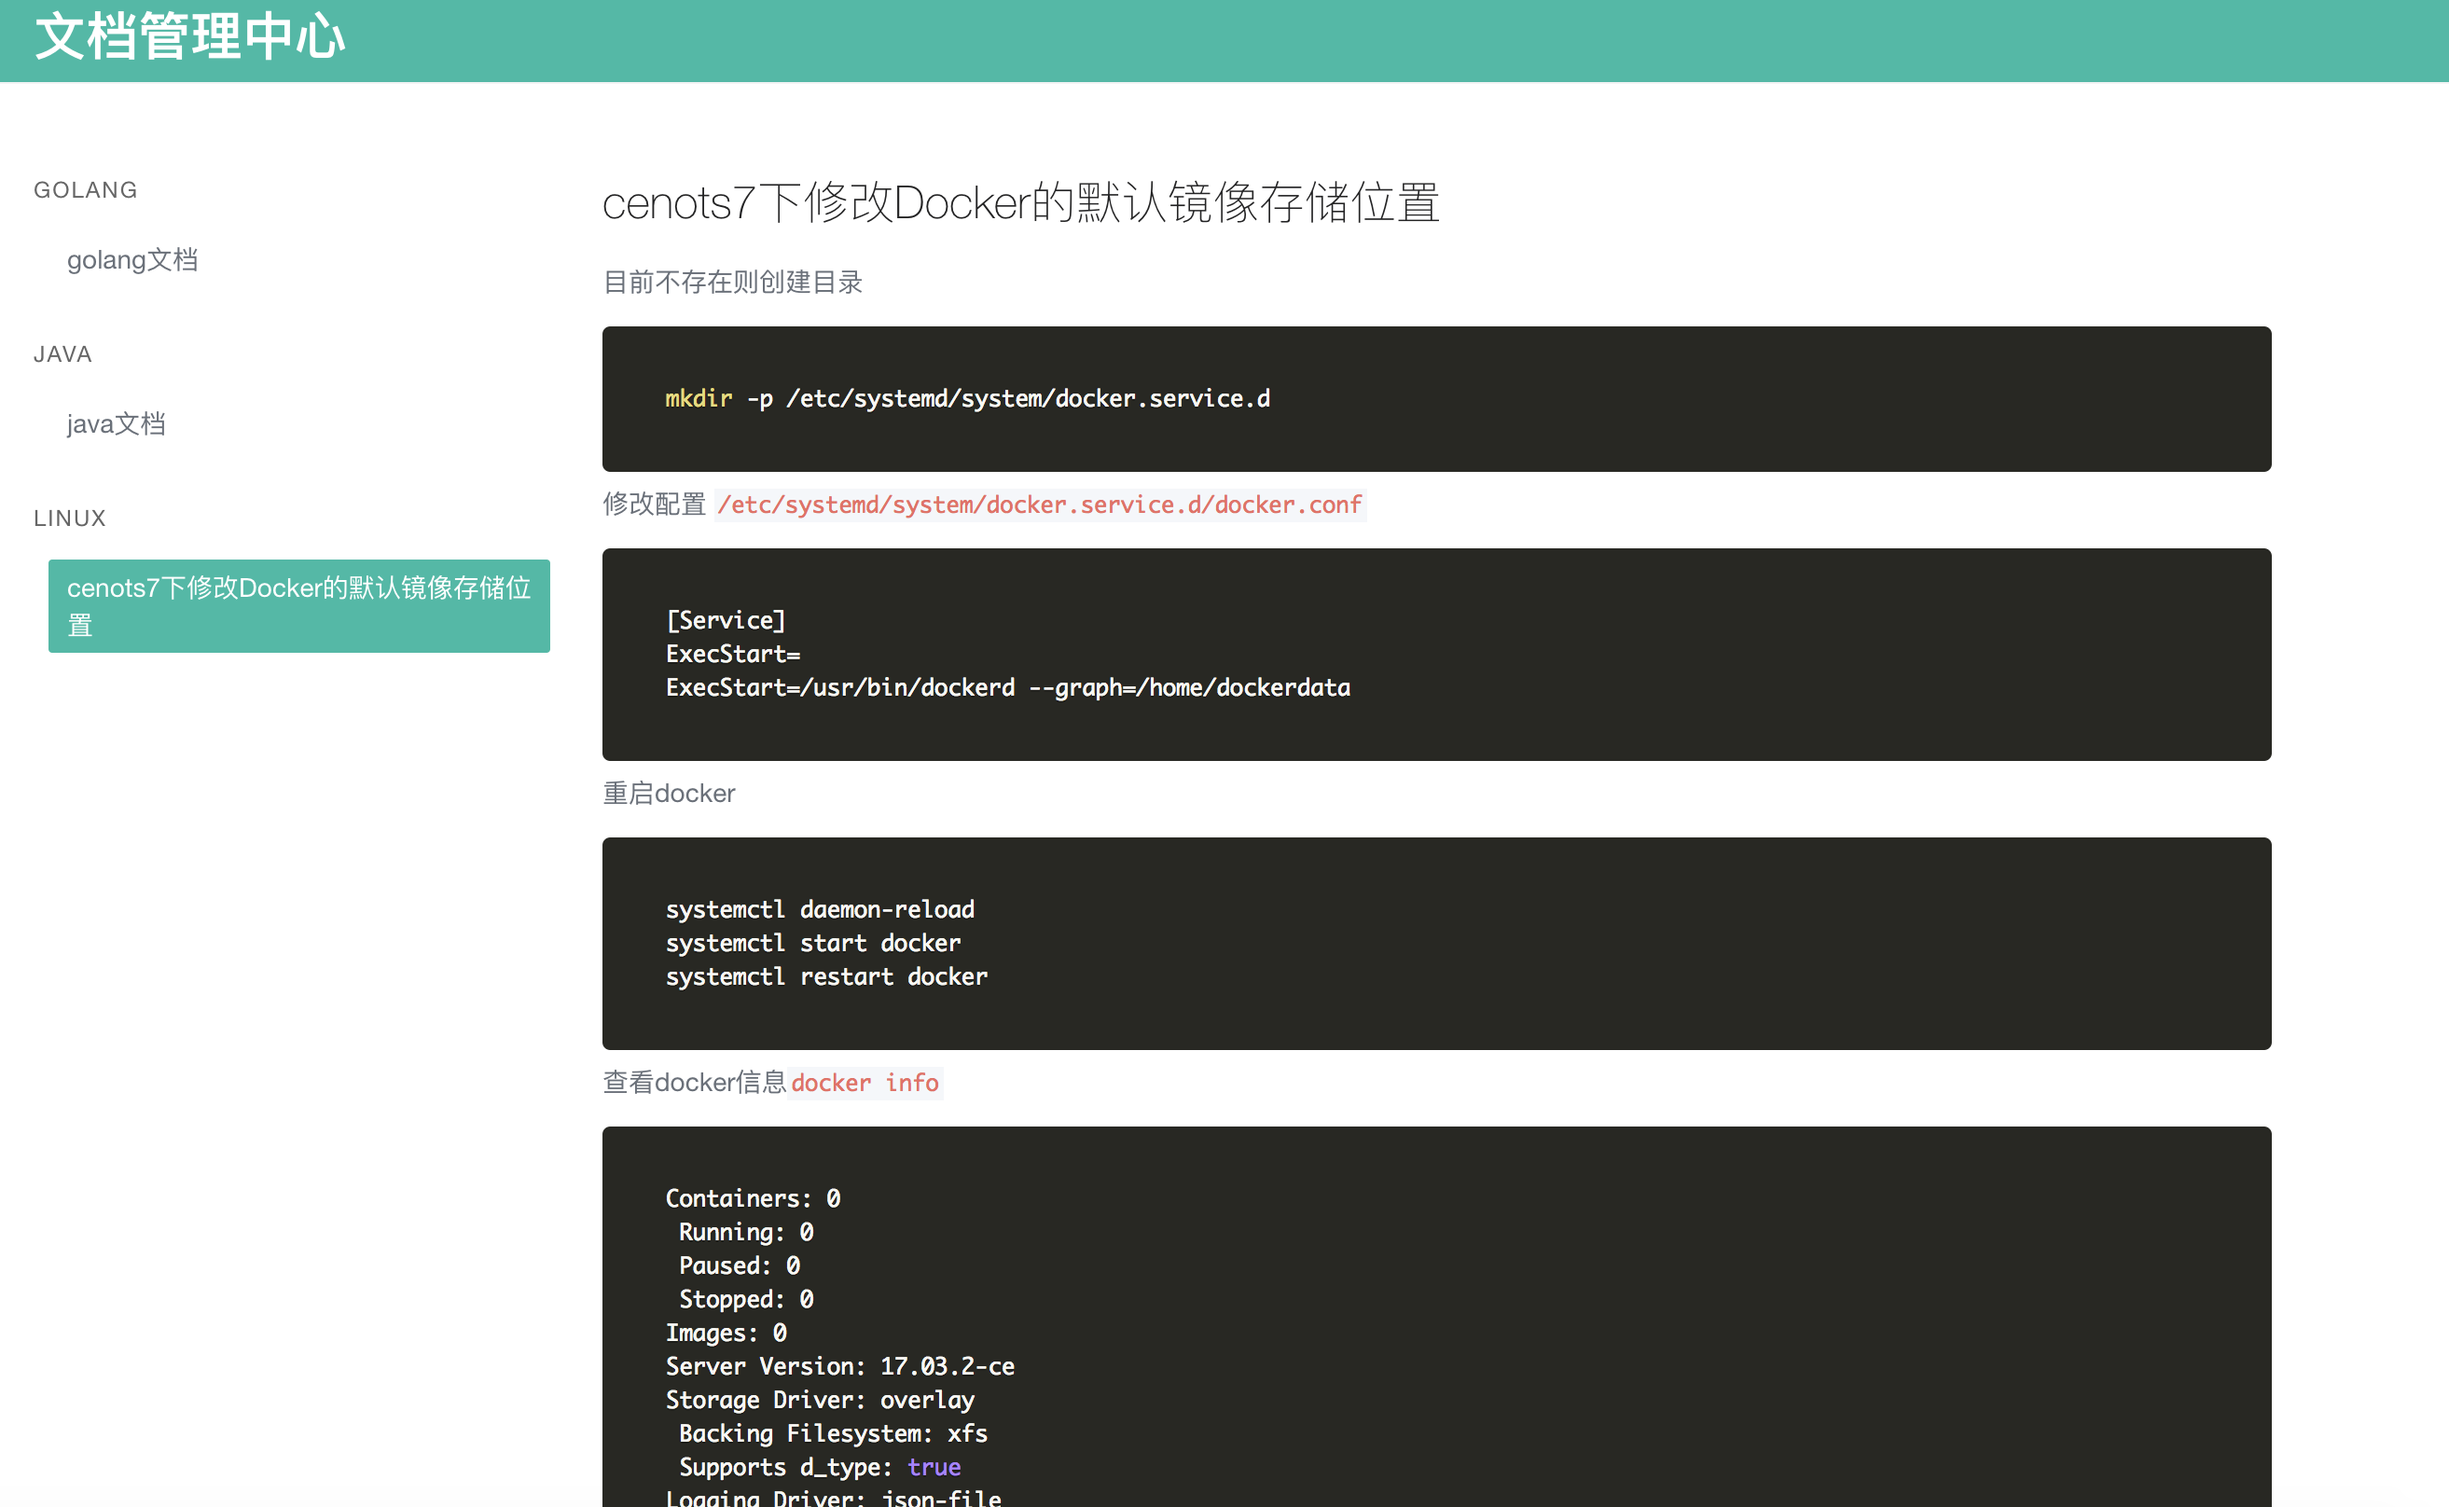
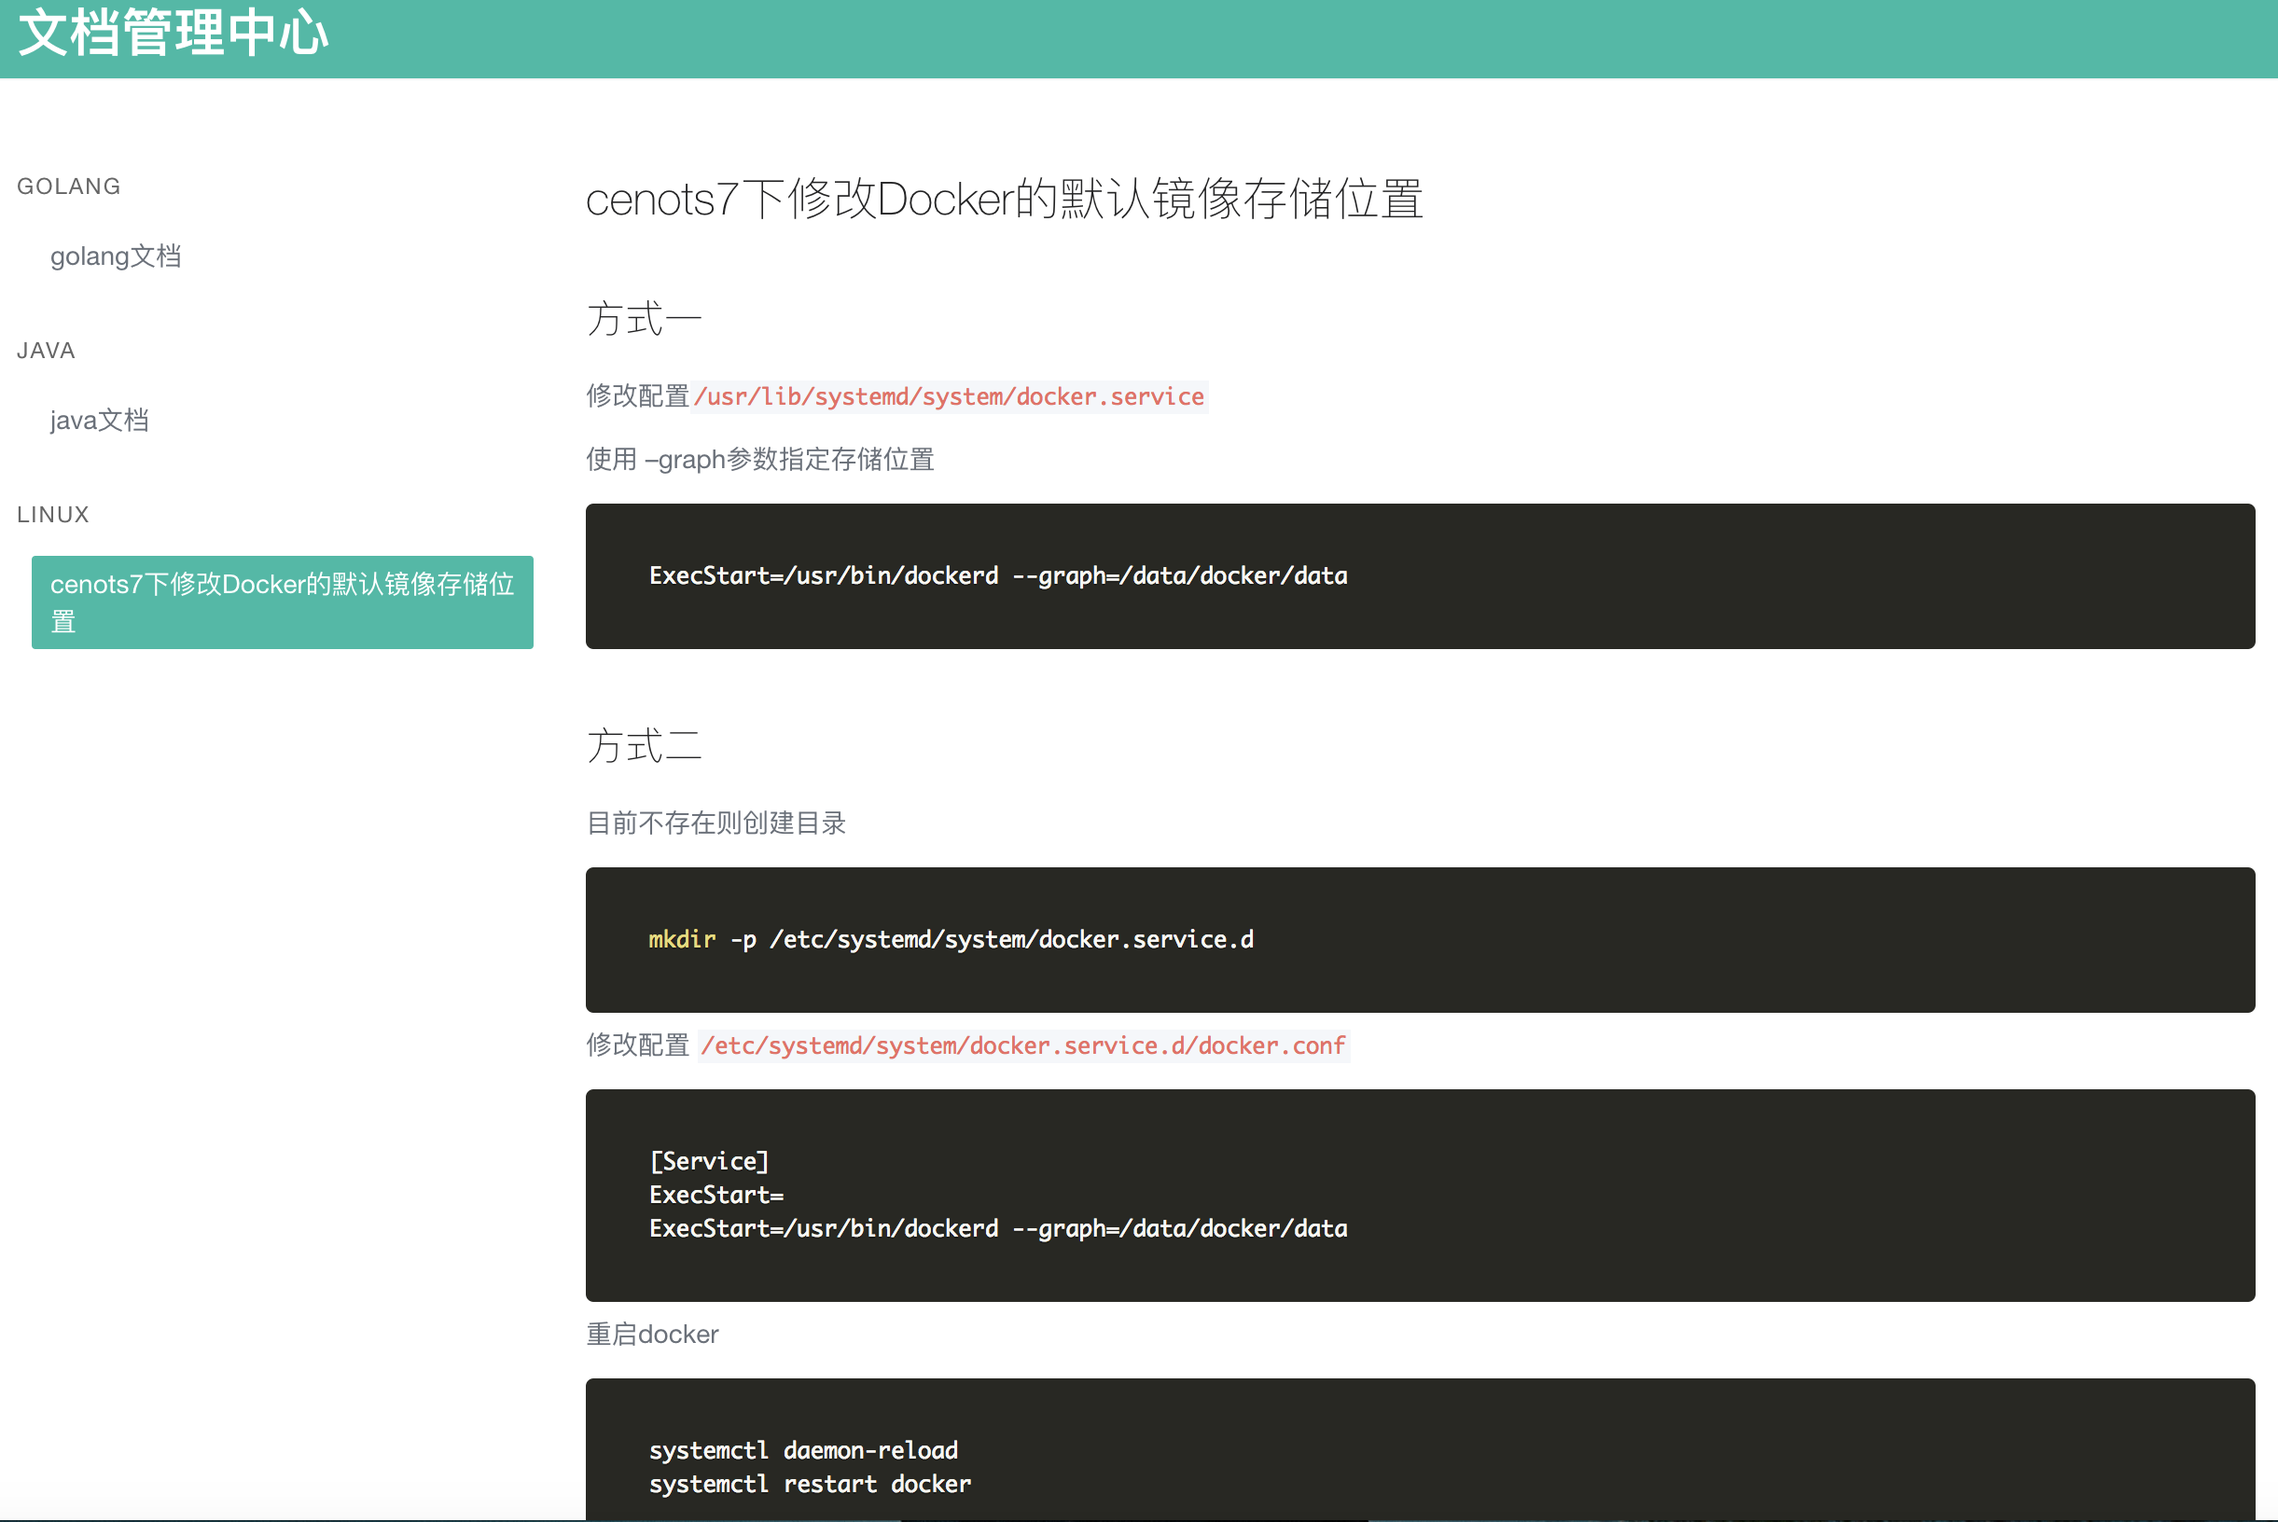
update

diff --git a/content/linux/cenots7下修改Docker的默认镜像存储位置.md b/content/linux/cenots7下修改Docker的默认镜像存储位置.md
@@ -8,6 +8,19 @@ menu:
 
 ## cenots7下修改Docker的默认镜像存储位置
 
+
+### 方式一
+
+修改配置`/usr/lib/systemd/system/docker.service`
+
+使用 --graph参数指定存储位置
+
+```bash
+ExecStart=/usr/bin/dockerd --graph=/data/docker/data
+```
+
+### 方式二
+
 目前不存在则创建目录
 
 ```bash
@@ -19,14 +32,13 @@ mkdir -p /etc/systemd/system/docker.service.d
 ```bash
 [Service]
 ExecStart=
-ExecStart=/usr/bin/dockerd --graph=/home/dockerdata
+ExecStart=/usr/bin/dockerd --graph=/data/docker/data
 ```
 
 重启docker
 
 ```bash
 systemctl daemon-reload
-systemctl start docker
 systemctl restart docker
 ```
 
